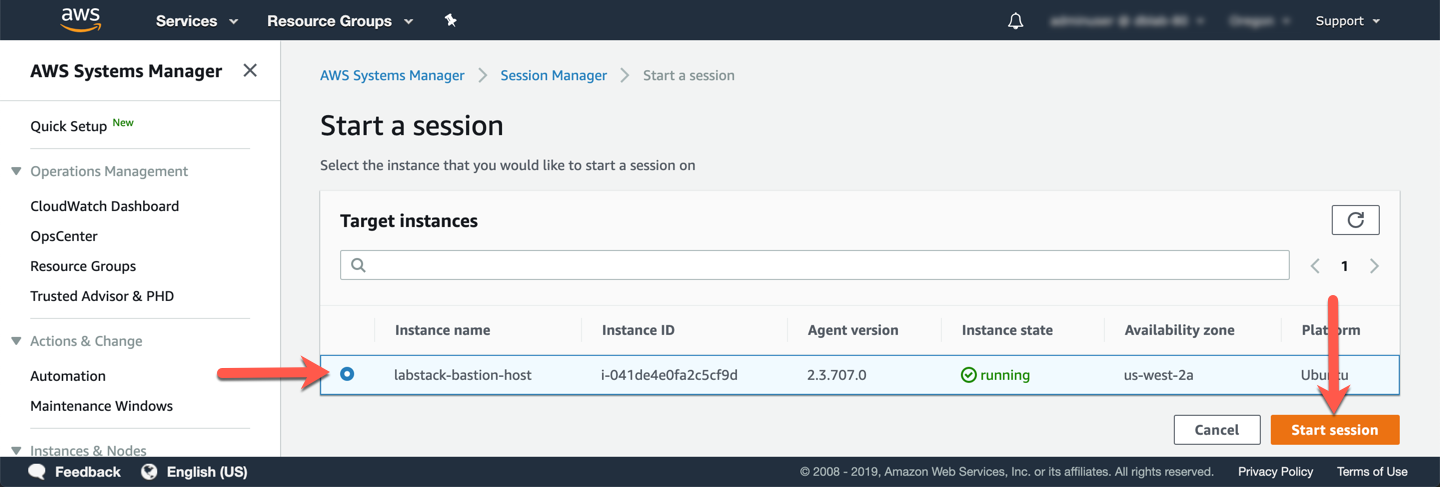
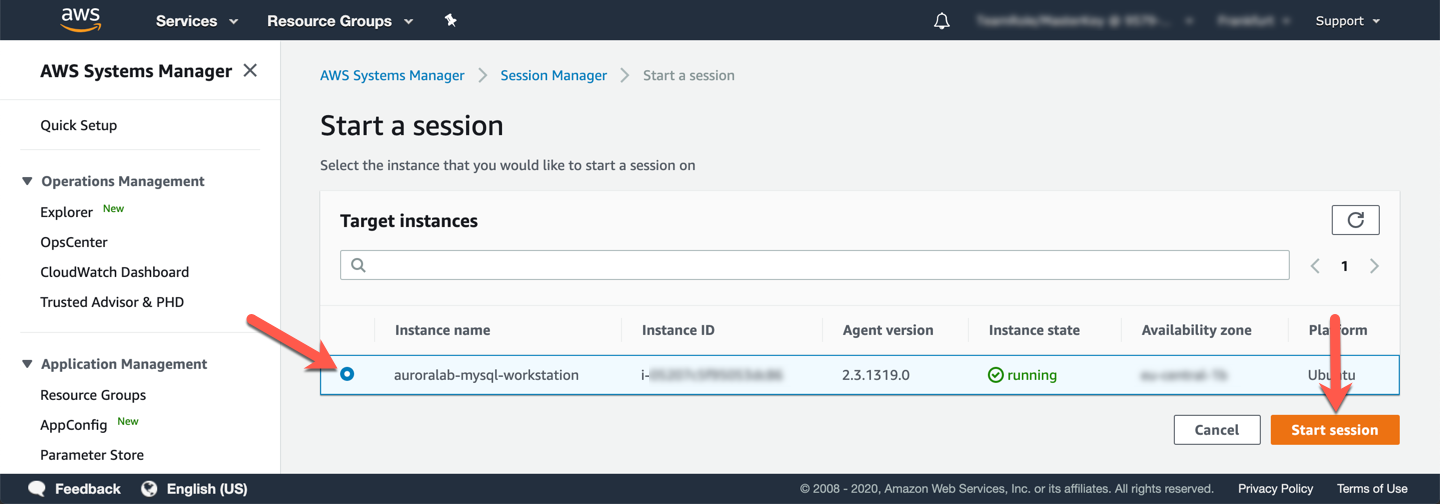
Updated screenshots (connect, interact labs)

diff --git a/docs/provisioned/interact/index.md b/docs/provisioned/interact/index.md
@@ -112,14 +112,14 @@ Now, open the <a href="https://us-west-2.console.aws.amazon.com/rds/home?region=
 
 Take note that the reader node is currently receiving load. It may take a minute or more for the metrics to fully reflect the incoming load.
 
-<span class="image">![Reader Load](4-read-load.png?raw=true)</span>
+<span class="image">![Reader Load](3-read-load.png?raw=true)</span>
 
 After several minutes return to the list of instances and notice that a new reader is being provisioned to your cluster.
 
-<span class="image">![Application Auto Scaling Creating Reader](4-aas-create-reader.png?raw=true)</span>
+<span class="image">![Application Auto Scaling Creating Reader](3-aas-create-reader.png?raw=true)</span>
 
 Once the new replica becomes available, note that the load distributes and stabilizes (it may take a few minutes to stabilize).
 
-<span class="image">![Application Auto Scaling Creating Reader](4-read-load-balanced.png?raw=true)</span>
+<span class="image">![Application Auto Scaling Creating Reader](3-read-load-balanced.png?raw=true)</span>
 
 You can now toggle back to the Session Manager command line, and type `CTRL+C` to quit the load generator. After a while the additional reader will be removed automatically.

diff --git a/docs/prereqs/connect/index.md b/docs/prereqs/connect/index.md
@@ -36,6 +36,7 @@ sudo su -l ubuntu
 
     If you encounter errors accessing lab commands in subsequent labs, it is likely because the user account was not changed using the command above.
 
+<span class="image">![Terminal Connected](1-terminal-sudo.png?raw=true)</span>
 
 ## 2. Verify lab environment
 
